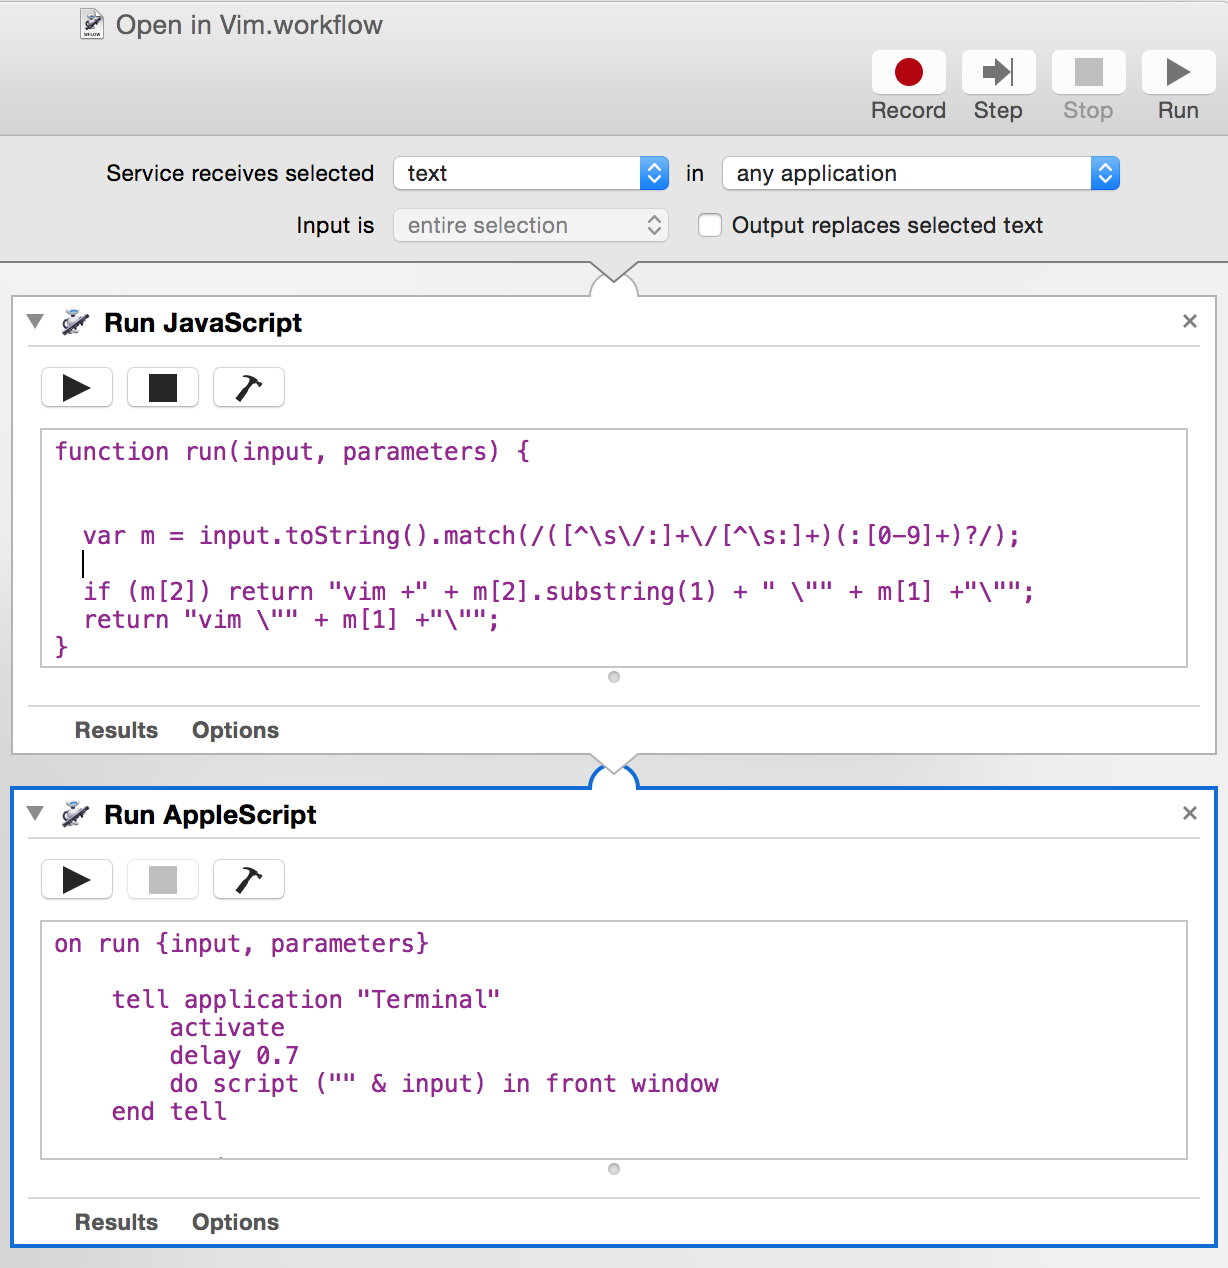
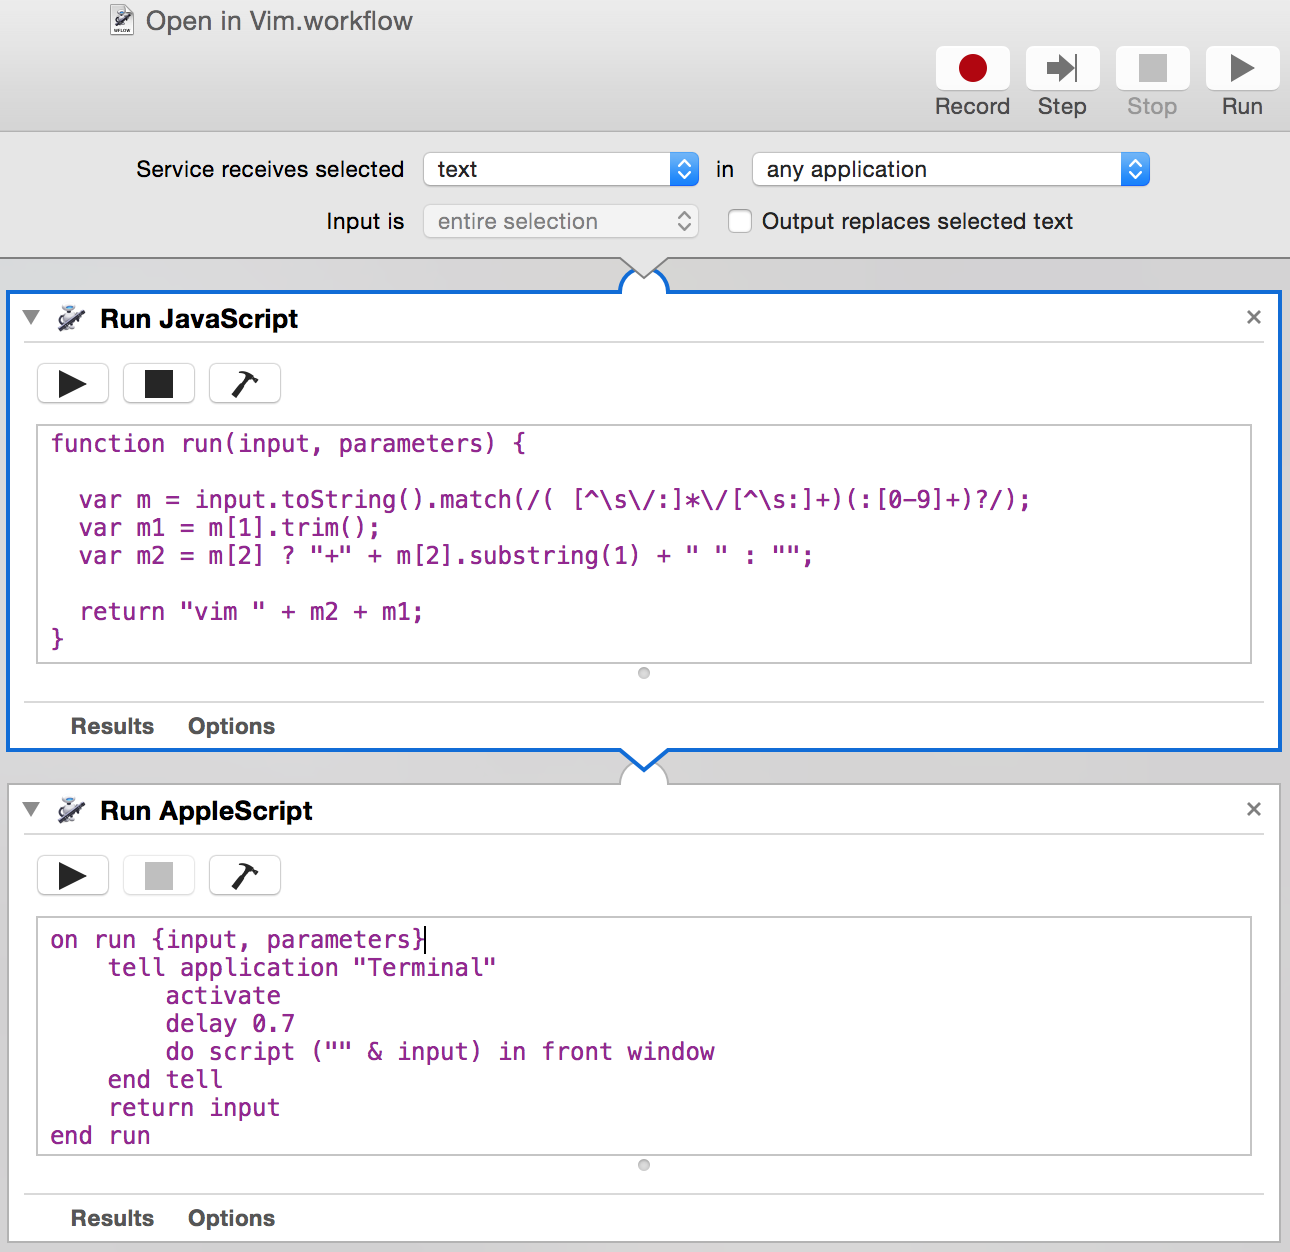
Make "Open in Vim" Javascript more robust

Changed region(s): [[0.0, 0.0312, 1.0, 1.0], [0.0619, 0.0, 0.3404, 0.0312]]

diff --git a/posts/20170331.md b/posts/20170331.md
@@ -30,10 +30,12 @@ Here are the two pieces of code, the Javascript one:
 <pre><code class="javascript">
 function run(input, parameters) {
 
-  var m = input.toString().match(/([^\s\/:]+\/[^\s:]+)(:[0-9]+)?/);
+  var m = input.toString().match(/( [^\s\/:]*\/[^\s:]+)(:[0-9]+)?/);
 
-  if (m[2]) return "vim +" + m[2].substring(1) + " \"" + m[1] +"\"";
-  return "vim \"" + m[1] +"\"";
+  var m1 = m[1].trim();
+  var m2 = m[2] ? "+" + m[2].substring(1) + " " : "";
+
+  return "vim " + m2 + m1;
 }
 </code></pre>
 
@@ -54,7 +56,11 @@ end run
 
 &nbsp;
 
-**Update**
+**Update 2017-03-31**
 
 For those of you using iTerm2, here is a post by [Luca Guidi](https://lucaguidi.com/) on how to do it: ["Click on stack trace to open a file with NeoVim"](https://coderwall.com/p/3xwkcq/click-on-stack-trace-to-open-a-file-with-neovim).
+
+**Update 2017-04-01**
+
+Made Javascript more robust.
 
